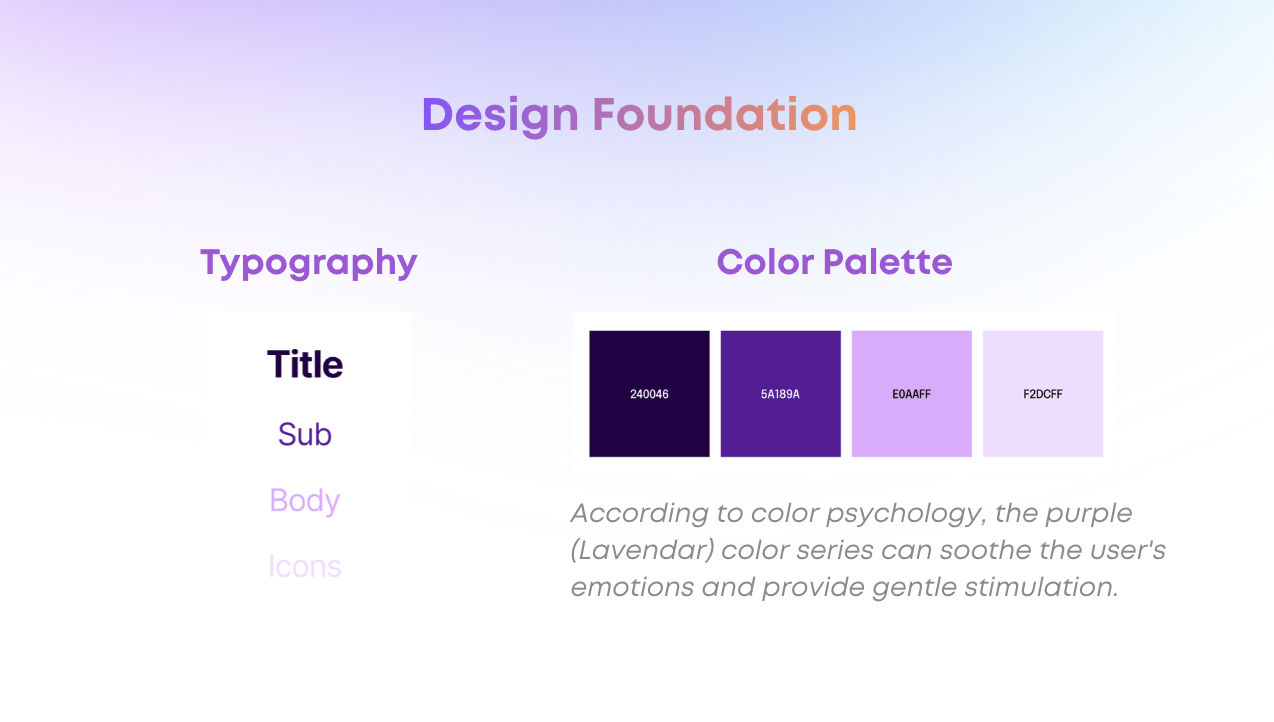
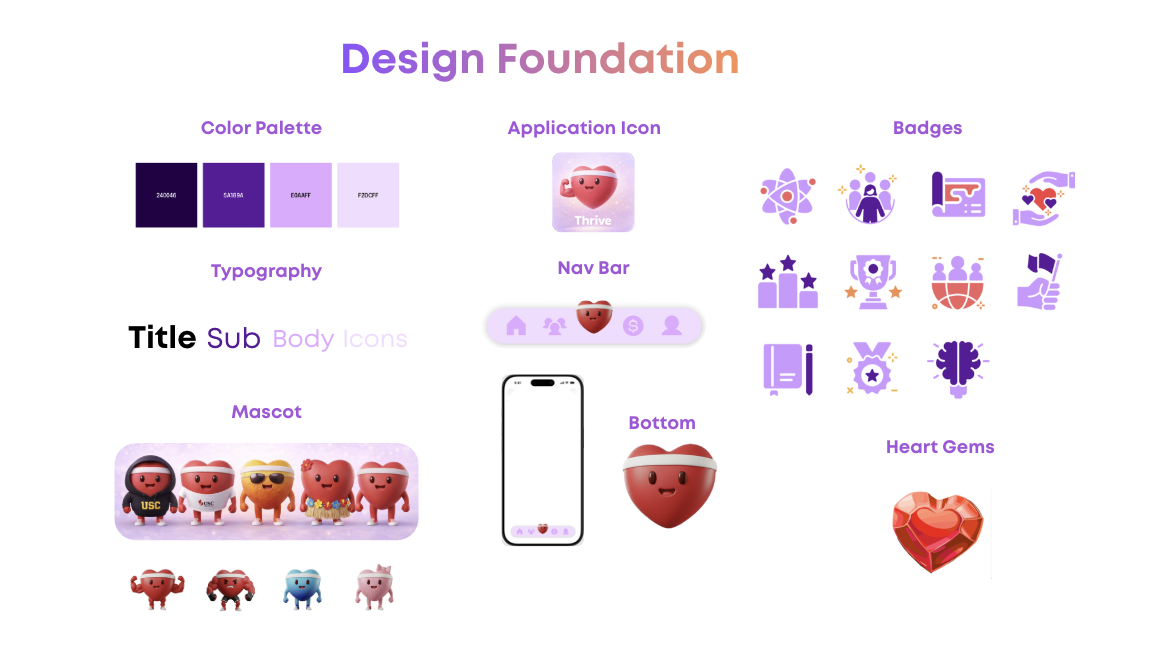
update AHA
update AHA

diff --git a/thrive.html b/thrive.html
@@ -3,7 +3,7 @@
 <head>
   <meta charset="utf-8">
   <meta name="viewport" content="width=device-width,initial-scale=1">
-  <title>Thrive - Move More (AHA) - Project</title>
+  <title>Thrive - Project</title>
   <meta name="description" content="Thrive is an AHA-inspired Move More concept that brings Life's Essential 8 into daily routines.">
   <link rel="stylesheet" href="styles/style.css">
   <style>
@@ -77,6 +77,17 @@
       color: #8c52ff;
     }
 
+    .source-highlight {
+      color: #e11d48;
+      font-weight: 600;
+    }
+
+    .style-note {
+      font-family: "Mont", var(--body-font);
+      color: #6b7280;
+      font-style: italic;
+    }
+
     .hero-art img {
       width: 100%;
       display: block;
@@ -124,7 +135,7 @@
     }
 
     .case-section {
-      padding: clamp(2.4rem, 6vw, 3.2rem) 0 clamp(2.4rem, 6vw, 3.2rem);
+      padding: 0 0 clamp(2.4rem, 6vw, 3.2rem);
       border-bottom: 1px solid #e5e7eb;
       display: grid;
       gap: clamp(1.3rem, 3vw, 2.2rem);
@@ -358,7 +369,7 @@
       <div class="hero-copy">
         <p class="hero-eyebrow">American Heart Association</p>
         <h1 class="hero-title">Thrive</h1>
-        <p class="hero-summary">Thrive turns everyday wellness into an engaging, AI-powered, personalized journey.</p>
+        <p class="hero-summary">Thrive is an app that turns everyday wellness into an engaging, AI-powered, personalized journey.</p>
         <p class="hero-prototype">Final Figma Prototype: <a href="https://www.figma.com/proto/esbJPok5bjC9sSQP1UekYO/Thrive-Prototype?page-id=1707%3A11146&amp;node-id=1707-12722&amp;starting-point-node-id=1707%3A12722&amp;t=fqPRUGyvo0WgbQrW-1" target="_blank" rel="noopener">View here</a></p>
       </div>
       <div class="hero-art">
@@ -406,10 +417,13 @@
       </div>
     </section>
 
+
+
+
     <section id="research" class="case-section">
       <span class="section-tag">Whitepaper Research</span>
             <!-- <p class="section-lead">We combined literature review, competitive audits, and community interviews to understand why motivation collapses after the early wins.</p> -->
-<p class="section-lead">Starting with white paper research, I began to draw from research articlaes on the topic of -when I stumbled upon several statistics from literature review: </p>
+<p class="section-lead">Starting with white paper research, I began to draw from research articlaes on the topic of Physical Activity Adherence, Motivation & Behavior Change... when I stumbled upon several statistics from <span class="source-highlight">JMIR Publication:</span> </p>
       <h3 class="section-title2">“...<b>one-size-fits-all</b> physical activity programs<b> did not fit their lifestyles </b>and reduced their willingness to continue using the app.”</h3>
       <h3 class="section-title2">“... <b>uncertain</b> about what <b>types</b> and <b>amounts</b> of physical activity were<b> sufficient</b>, often <b>underestimating the value of everyday movement.</b>”</h3>
       <h3 class="section-title2">“... <b>Motivation </b>to engage in physical activity <b>declines</b> rapidly when feedback is delayed and progress is <b>not immediately visible</b>.”</h3>
@@ -419,7 +433,28 @@
         <li>Künsting, J. et al. Exploring Users’ Experiences of the Uptake and Adoption of Physical Activity Apps. JMIR mHealth and uHealth, 2018.</li>
         <li>Various Authors. Systematic review on gamification and feedback effectiveness in physical activity interventions. BMC Public Health / JMIR Publications.</li>
       </ol>
-<section id="competitve audits" class="case-section"></section>
+
+<section id="conclusion" class="case-section">
+      <span class="section-tag">Research Sythesize</span>
+      <p>We have summarized the literature reviews into three main reasons: </p>
+   
+      <div class="section-body">
+       <div class="section-media">
+        <img src="img/AHA/3 reasons.png" alt="reasons" loading="lazy" controls>
+         </div>
+      </div>
+    </section>
+
+    <section id="persona" class="case-section">
+      <span class="section-tag">Persona</span>
+      <p>Sam is a busy retail worker in his 30s who wants to build consistent workout habits but struggles with time, motivation, and generic fitness advice.</p>
+
+      <div class="section-media">
+        <img src="img/AHA/Persona.png" alt="Reward system presentation slide" loading="lazy">
+      </div>
+</section>
+
+   <section id="competitve audits" class="case-section"></section>
       <span class="section-tag">competitive audits</span>
          <p class="section-lead">We analyzed leading fitness apps including Strava, Fitbit, Nike Run Club and Apple Fitness.</p>
 
@@ -430,40 +465,23 @@
       </div>
 
 </section>
-<section id="persona" class="case-section">
-      <span class="section-tag">User Persona</span>
-      <p>Sam is a busy retail worker in his 30s who wants to build consistent workout habits but struggles with time, motivation, and generic fitness advice.</p>
 
-      <div class="section-media">
-        <img src="img/AHA/Persona.png" alt="Reward system presentation slide" loading="lazy">
-      </div>
-</section>
-     
-    </section>
+    
 
-    <section id="conclusion" class="case-section">
-      <span class="section-tag">Research Sythesize</span>
-      <h2 class="section-title">Most fitness apps optimize for tracking behavior, not for sustaining behavior change.</h2>
-      <p class="section-lead">When people see how small actions stack into heart-health impact, confidence and follow-through rise.</p>
-      <div class="section-body">
-       <div class="section-media">
-        <img src="img/AHA/Three reasons.png" alt="reasons" loading="lazy" controls>
-         </div>
-      </div>
-    </section>
+
 <section id="Direction" class="case-section">
 <span class="section-tag">Design Direction</span>
-<p><p>We synthesized our research findings into three core design directions and translated them into three key features to address users’ primary pain points.</p></p>
+<p>Based on the three main research insights that we sythesized, we did more literature reviews to figure out how to solve these three main pain points. </s></p>
  <div class="section-media">
-        <img src="img/AHA/Design Direction.png" alt="Direction" loading="lazy">
+        <img src="img/AHA/3 features.png" alt="Direction" loading="lazy">
       </div>
 
 
 </section>
 
 <section id="Design" class="case-section">
-  <span class="section-tag">Design Foundation</span>
-  
+  <span class="section-tag">The Style Guide</span>
+  <p class="style-note">According to color psychology, the purple (Lavendar) color series can soothe the user's emotions and provide gentle stimulation.</p>
     <div class="section-media">
           <img src="img/AHA/Design Foundation.png" alt="Design Foundation" loading="lazy">
     </div>
